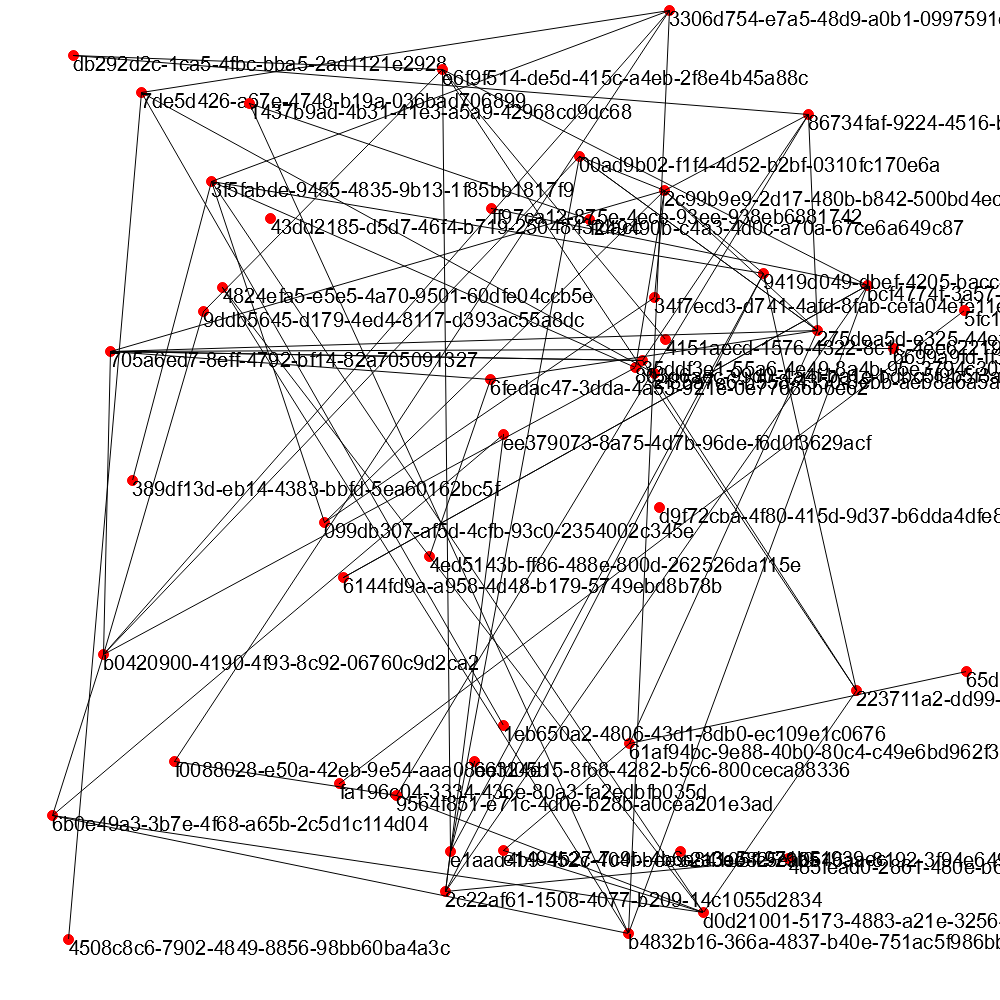
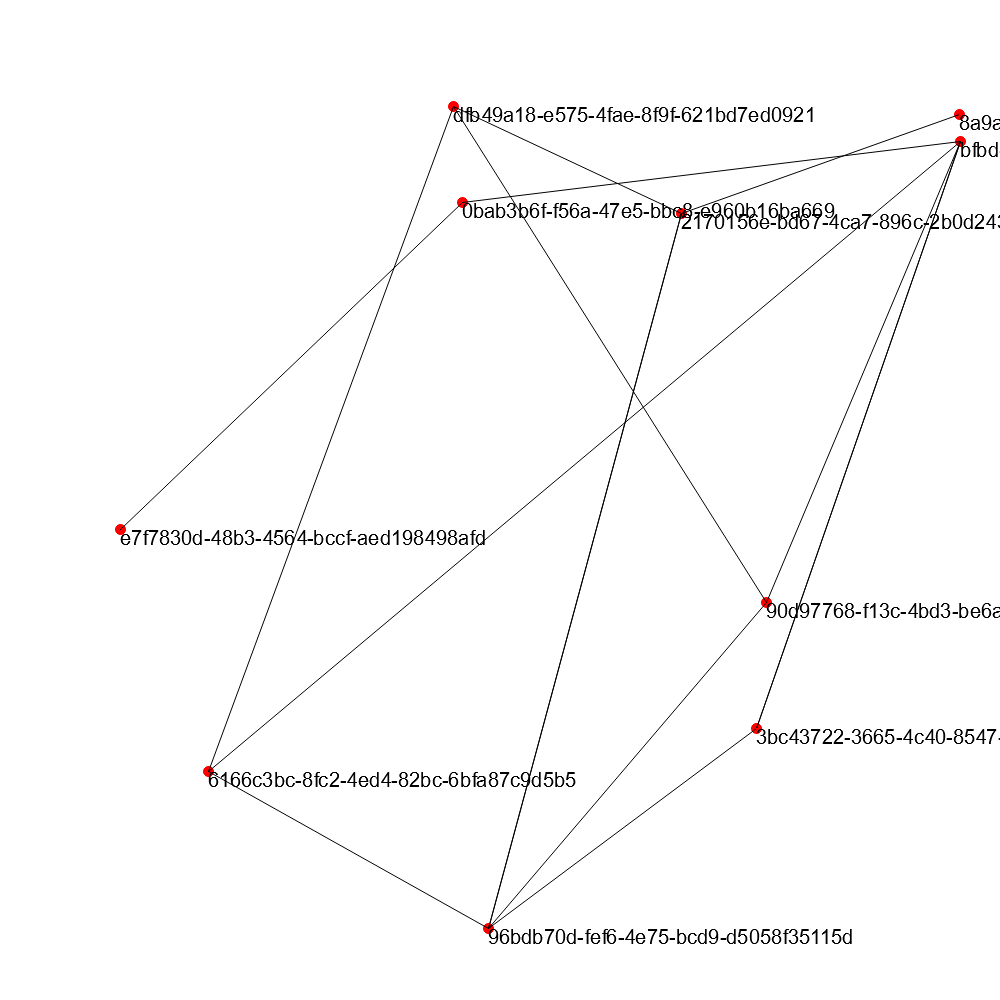
dfs

Changed region(s): [[0.031, 0.031, 1.0, 0.961], [0.62, 0.0, 1.0, 0.031], [0.062, 0.93, 0.434, 0.961]]

diff --git a/graph/src/shortest_path/bfs.rs b/graph/src/shortest_path/bfs.rs
@@ -5,96 +5,26 @@ use uuid::Uuid;
 
 use crate::Graph;
 
-// Define a TreeNode structure to represent the tree structure of paths.
-#[derive(Clone)]
-struct TreeNode {
-    node_id: Uuid,
-    children: Vec<TreeNode>,
+pub fn dfs(graph: &Graph, start_node_id: Uuid) -> HashMap<Uuid, i32> {
+    let mut visited = HashMap::new();
+    dfs_recursive_helper(graph, start_node_id, &mut visited, 0);
+    visited
 }
 
-impl TreeNode {
-    fn new(node_id: Uuid) -> Self {
-        TreeNode {
-            node_id,
-            children: Vec::new(),
-        }
-    }
-
-    // Recursive function to add a node to the tree.
-    fn add_child(&mut self, child_node: TreeNode) {
-        self.children.push(child_node);
-    }
-
-    // Convert the tree to a flattened HashMap of paths.
-    fn to_path_map(&self) -> HashMap<Uuid, Vec<Uuid>> {
-        let mut path_map: HashMap<Uuid, Vec<Uuid>> = HashMap::new();
-        self.to_path_vector(Vec::new(), &mut path_map);
-        path_map
-    }
-
-    // Recursively traverse the tree to construct paths and populate the HashMap.
-    fn to_path_vector(&self, mut current_path: Vec<Uuid>, path_map: &mut HashMap<Uuid, Vec<Uuid>>) {
-        current_path.push(self.node_id);
-        path_map.insert(self.node_id, current_path.clone());
-
-        for child in &self.children {
-            child.to_path_vector(current_path.clone(), path_map);
-        }
-    }
-}
-
-pub fn bfs_recursive(graph: &Graph, start_node_id: Uuid) -> HashMap<Uuid, Vec<Uuid>> {
-    // Initialize a HashMap to store paths for each node.
-    let mut paths: HashMap<Uuid, TreeNode> = HashMap::new();
-
-    // Initialize a queue for BFS and add the starting node to it.
-    let mut queue: VecDeque<Uuid> = VecDeque::new();
-    queue.push_back(start_node_id);
-
-    // Initialize the path for the starting node as a single-node TreeNode.
-    let start_node_tree = TreeNode::new(start_node_id);
-    paths.insert(start_node_id, start_node_tree);
-
-    // Call the recursive BFS function.
-    bfs_recursive_helper(graph, &mut queue, &mut paths);
-
-    // Convert the tree structure to a HashMap of paths.
-    paths
-        .values()
-        .map(|tree| tree.to_path_map())
-        .fold(HashMap::new(), |mut acc, map| {
-            acc.extend(map);
-            acc
-        })
-}
-
-fn bfs_recursive_helper(
+fn dfs_recursive_helper(
     graph: &Graph,
-    queue: &mut VecDeque<Uuid>,
-    paths: &mut HashMap<Uuid, TreeNode>,
+    current_node_id: Uuid,
+    visited: &mut HashMap<Uuid, i32>,
+    depth: i32,
 ) {
-    while let Some(current_node_id) = queue.pop_front() {
-        let current_tree_node = paths.get(&current_node_id).unwrap().clone();
-
-        // Iterate through outgoing edges of the current node.
-        for edge in &graph.edges {
-            if edge.incoming == current_node_id {
-                let target_node_id = edge.outgoing;
-
-                // If the target node is not in the paths HashMap, add it.
-                if !paths.contains_key(&target_node_id) {
-                    // Create a new path by extending the current path.
-                    let mut new_tree_node = current_tree_node.clone();
-                    let child_tree_node = TreeNode::new(target_node_id);
-                    new_tree_node.add_child(child_tree_node);
-
-                    // Insert the new path into the paths HashMap.
-                    paths.insert(target_node_id, new_tree_node.clone());
-
-                    // Add the target node to the queue for further exploration.
-                    queue.push_back(target_node_id);
-                }
-            }
+    if let Some(v) = visited.get(&current_node_id) {
+        if v < &depth {
+            return;
         }
     }
+    visited.insert(current_node_id, depth);
+    graph
+        .get_neighbors(current_node_id)
+        .iter()
+        .for_each(|node_id| dfs_recursive_helper(graph, *node_id, visited, depth + 1));
 }

diff --git a/graph/src/main.rs b/graph/src/main.rs
@@ -19,7 +19,7 @@ use plotters::{
 
 use ordered_float::OrderedFloat;
 
-use crate::shortest_path::{bfs::bfs_recursive, dijkstra::dijkstra};
+use crate::shortest_path::{bfs::dfs, dijkstra::dijkstra};
 
 pub mod shortest_path;
 
@@ -174,10 +174,30 @@ impl Graph {
         let random_element = self.nodes[random_index].id;
         random_element
     }
+    fn get_neighbors(&self, node_id: Uuid) -> HashSet<Uuid> {
+        let mut neighbors = HashSet::new();
+
+        // Find the index of the node with the given ID in the node vector
+        if let Some(&node_index) = self.node_lookup.get(&node_id) {
+            // Iterate through the edges to find outgoing edges from the node
+            for edge in &self.edges {
+                if edge.incoming == node_id {
+                    // If the incoming ID matches the target node, add the outgoing node to neighbors
+                    neighbors.insert(edge.outgoing);
+                }
+                if edge.outgoing == node_id {
+                    // If the incoming ID matches the target node, add the outgoing node to neighbors
+                    neighbors.insert(edge.incoming);
+                }
+            }
+        }
+
+        neighbors
+    }
 }
 
 fn main() {
-    let mut graph = Graph::new_random(50, 75);
+    let mut graph = Graph::new_random(10, 15);
     let _ = visualize_graph(&mut graph);
     for _ in 0..10 {
         let source_id = graph.get_random_node();
@@ -185,7 +205,7 @@ fn main() {
 
         println!("Running Shortest Path for {source_id}, {target_id}");
 
-        let shortest = bfs_recursive(&graph, source_id);
+        let shortest = dfs(&graph, source_id);
 
         println!("Shortest Path result: {shortest:?}");
         println!(
